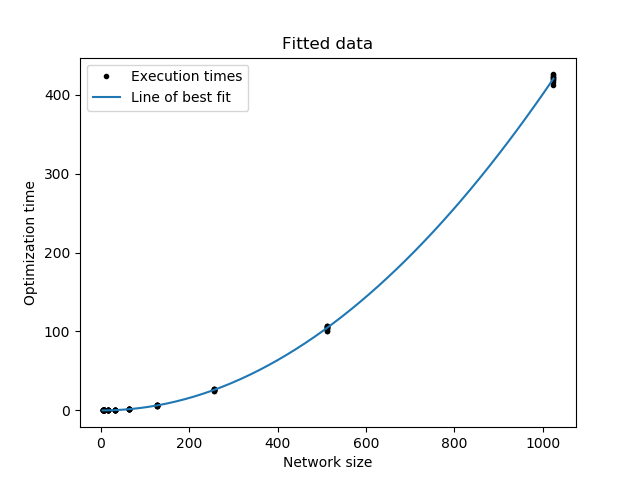
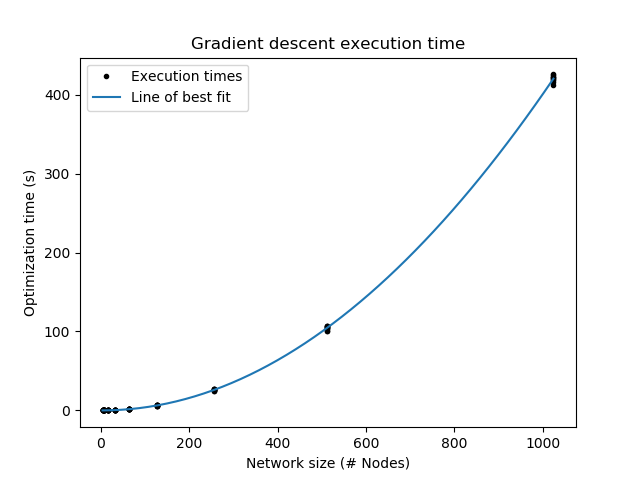
Wrote function to sum number of red balls based on degree of node

Changed region(s): [[0.2812, 0.0625, 0.7188, 0.125], [0.375, 0.9375, 0.6562, 1.0], [0.0312, 0.3438, 0.0625, 0.6562]]

diff --git a/plots/plot_optimized_analysis.py b/plots/plot_optimized_analysis.py
@@ -1,0 +1,47 @@
+from model.network import network
+from numpy import array
+from utilities.plot import plot_w_best_fit
+from time import time_ns
+
+
+def sum_by_degree(_network):
+    ball_dist = {}
+    for i, node in enumerate(_network.nodes):
+        degree = node.degree
+        if degree in ball_dist:
+            ball_dist[degree] = (node.red + ball_dist[degree][0], ball_dist[degree][1] + 1)
+        else:
+            ball_dist[degree] = (node.red, 1)
+
+    return ball_dist
+
+
+def merge_dict(dict_a, dict_b):
+    for item in dict_b:
+        if item in dict_a:
+            dict_a[item] += dict_b[item]
+        else:
+            dict_a[item] = dict_b[item]
+
+    return dict_a
+
+
+num_trials = 150
+
+start = time_ns()
+count = {}
+for i in range(num_trials):
+    net = network(100)
+    net.optimize_initial()
+
+    trial_count = sum_by_degree(net)
+    count = merge_dict(count, trial_count)
+
+    print('Trial', i+1, 'done', (i+1)/num_trials*100, '%  complete')
+
+end = time_ns()
+print('Time to compute = ', (end - start) / 1000000000)
+
+count_list = array([(degree, count[degree][0] / count[degree][1]) for degree in count])
+plot_w_best_fit(count_list, 'Average number of balls vs degree of node', '../results/balls_vs_degree.png',
+                True, 'Node degree', 'Average number of red balls', data_name='../data/balls_vs_degree.csv')

diff --git a/utilities/plot.py b/utilities/plot.py
@@ -83,6 +83,7 @@ def plot_network(network, blocking=True, save_plot=True, _title='Network plot'):
     show(block=blocking)  # Open matplotlib window
 
 
+# TODO generalize function
 def plot_degree_frequency(network, _title='Node Degree vs Degree Frequency', blocking=False, save=True):
     frequencies = {}
     for node in network.nodes:
@@ -108,7 +109,7 @@ def plot_degree_frequency(network, _title='Node Degree vs Degree Frequency', blo
     show(block=blocking)
 
 
-def plot_w_best_fit(data, _title='Fitted data', filename='', blocking=False, x_label='', y_label=''):
+def plot_w_best_fit(data, _title='Fitted data', filename='', blocking=False, x_label='', y_label='', data_name=''):
     figure(_title)
     x, y = data[:, 0], data[:, 1]
     plot(x, y, '.k', label='Execution times')
@@ -123,4 +124,7 @@ def plot_w_best_fit(data, _title='Fitted data', filename='', blocking=False, x_l
 
     if filename != '':
         savefig(filename)
+    if data_name != '':
+        save_frequencies(data, data_name)
+
     show(block=blocking)

diff --git a/plots/plot_times.py b/plots/plot_times.py
@@ -4,4 +4,5 @@ from utilities.plot import plot_w_best_fit
 times = load_frequencies('../data/execution_times.csv')
 
 plot_w_best_fit(times, blocking=True, filename='../results/benchmark.png',
-                x_label='Network size', y_label='Optimization time')
+                x_label='Network size (# Nodes)', y_label='Optimization time (s)',
+                _title='Gradient descent execution time')

diff --git a/model/polya_node.py b/model/polya_node.py
@@ -51,6 +51,7 @@ class polya_node:
     def lock_optimization(self):
         self.init_red = self.last_red = self.red
         self.init_black = self.last_black = self.black
+        self.init_total = self.red + self.black
 
     def lock_step(self):
         self.last_red = self.red

diff --git a/three_node/three_node_initial.py b/three_node/three_node_initial.py
@@ -1,5 +1,5 @@
 from numpy import full, argmin, argmax, copy
-from simple_model.utils import calculate_exposure, get_node
+from three_node.utils import calculate_exposure, get_node
 import matplotlib.pyplot as plt
 
 
